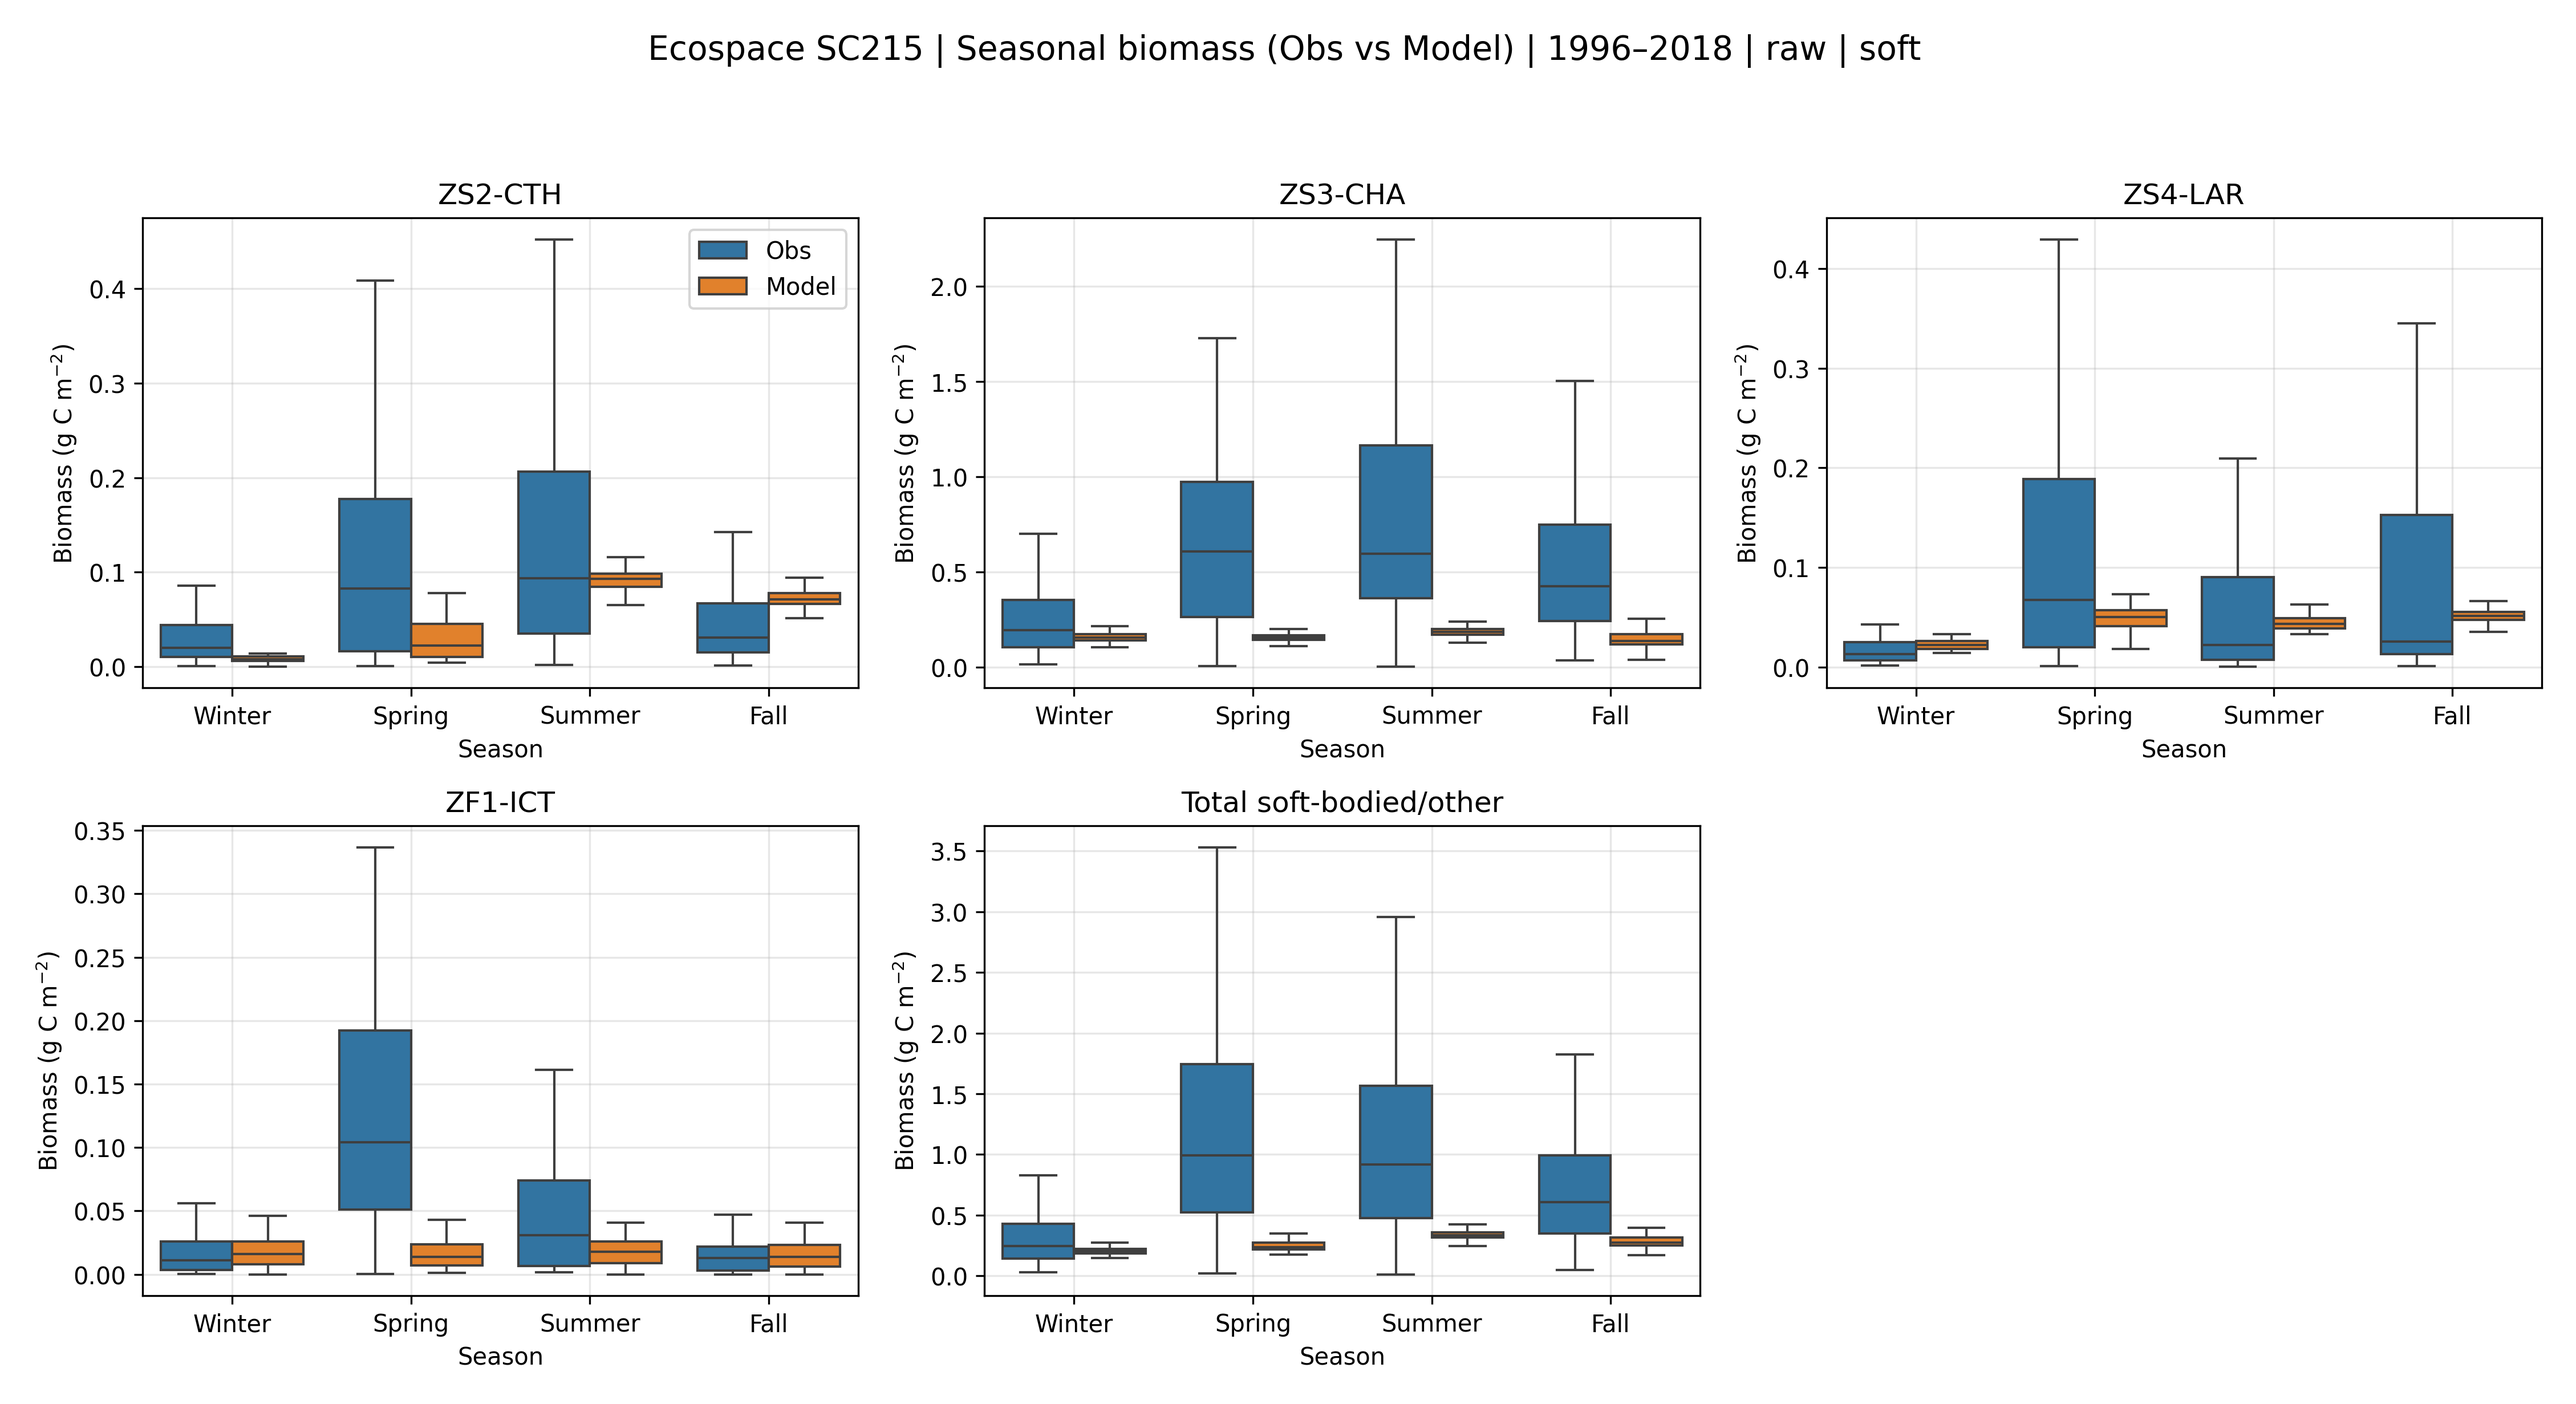
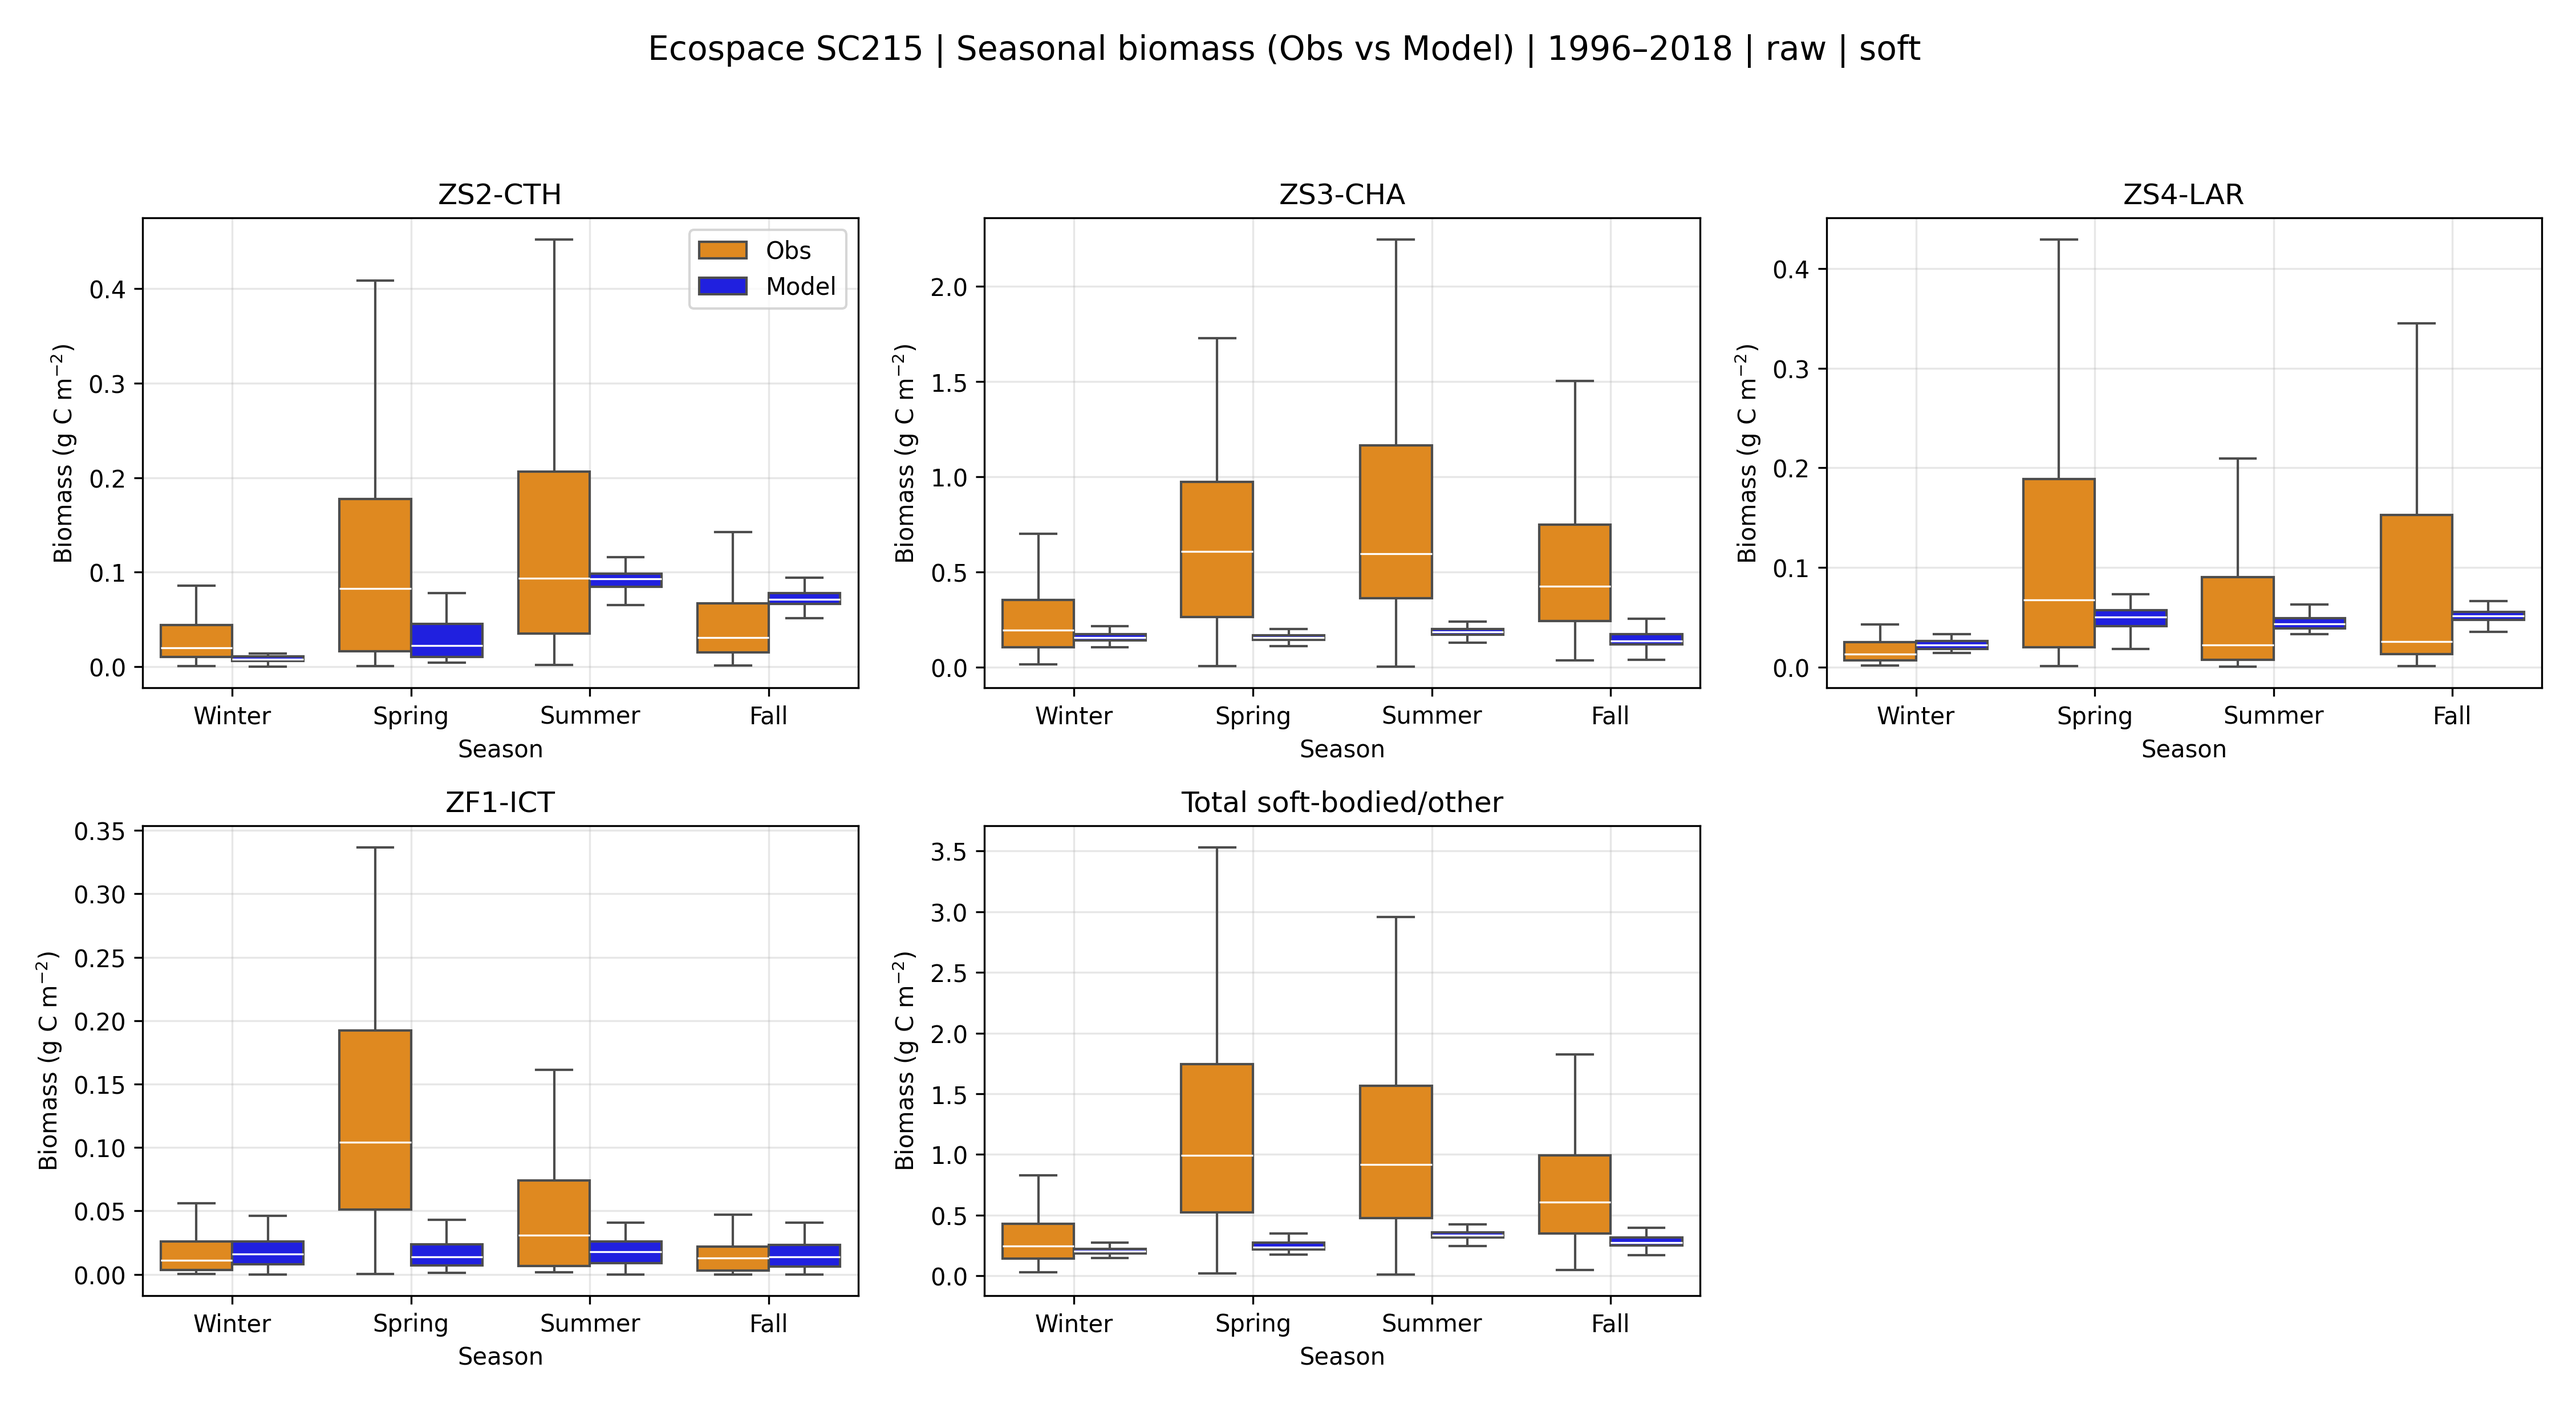
new plots

diff --git a/scripts/PublicationScripts/ecospace_eval_5_zoop_eval.py b/scripts/PublicationScripts/ecospace_eval_5_zoop_eval.py
@@ -398,6 +398,8 @@ def panel_seasonal_boxplots(
             showfliers=False,  # match Ecosim behaviour
             hue="Source",
             ax=ax,
+            palette={"Obs": "darkorange", "Model": "blue"},
+            medianprops={"color": "white", "linewidth": 0.8}
         )
 
         # nicer labels
@@ -534,6 +536,8 @@ def plot_seasonal_boxpanels(
             hue="Source",
             ax=ax,
             showfliers=False,
+            palette={"Obs": "darkorange", "Model": "blue"},
+            medianprops={"color": "white", "linewidth": 0.8}
         )
         # ax.set_yscale("log")
         ax.grid(True, which="major", axis="both", linestyle="-", alpha=0.4)
